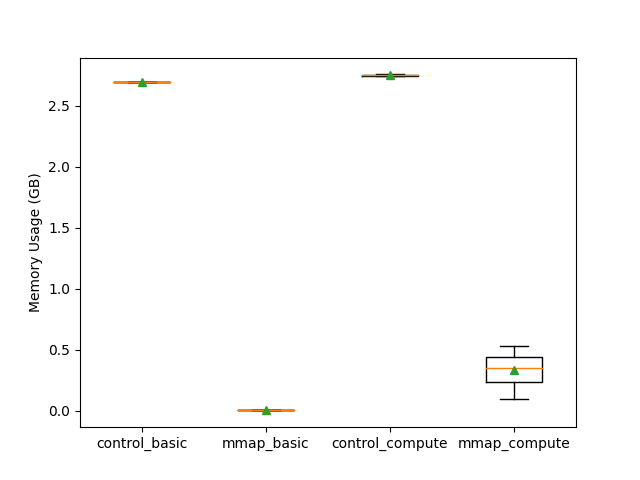
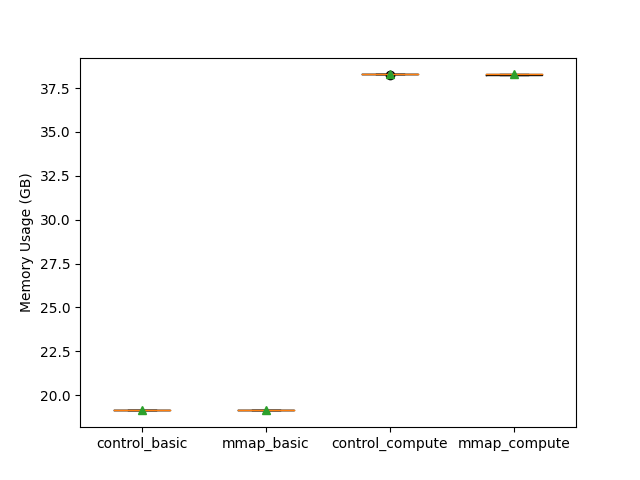
with + without coalesce for 354 residuals + 100 compute cycles

diff --git a/colbert/tests/mmap_test.py b/colbert/tests/mmap_test.py
@@ -11,8 +11,8 @@ import torch
 
 HDD_filepath = '/lfs/1/udingank/msmarco.nbits-2.latest'
 SSD_filepath = '/lfs/0/udingank/msmarco.nbits-2.latest'
-Sources = [HDD_filepath, SSD_filepath]
-Results = ['results-hdd.png', 'results-ssd.png']
+Sources = [SSD_filepath, HDD_filepath]
+Results = ['results-ssd.png', 'results-hdd.png']
 
 #Sources = [TestFile]
 #Results = ['results.png']
@@ -24,10 +24,9 @@ verbose = False
 TEST_CHUNK_SIZE = 100000
 BYTE_SIZE = 1
 
-NUM_COMPUTE_CYCLES = 10
+NUM_COMPUTE_CYCLES = 100
 
-NUM_RES_FILES = 50
-#NUM_RES_FILES = 354
+NUM_RES_FILES = 354
 TensorSizes = [51166240, 51453472, 50933984, 52260032, 54481664, 54507104, 53236320, 53662720, 53944384, 54002784, 53552256, 53667328, 54137248, 54020352, 54441184, 53984192, 53614432, 54481120, 54064096, 54103616, 54155040, 54032160, 53146528, 53839648, 53485664, 54296672, 53755040, 54010784, 54191008, 53782240, 54119968, 53886496, 54510016, 54021184, 53680544, 54164352, 54120192, 54463776, 54394944, 53432672, 54699488, 53804480, 54014720, 53671136, 54194016, 53839008, 54290848, 54043008, 53700608, 53871520, 53178624, 53900512, 54015904, 54518592, 54416992, 54581504, 54298848, 54158368, 54041568, 54378688, 53839232, 54287264, 54091488, 53730464, 53566848, 54063168, 53944000, 54137632, 53897248, 53624928, 54485760, 54331104, 54647968, 54599968, 54546112, 53670656, 53914016, 54217856, 54305568, 54257984, 55005792, 53951104, 54497792, 54992992, 53889312, 53944960, 54473152, 54046304, 54046592, 53580608, 53617120, 53198688, 52915296, 53923072, 53460608, 53548960, 53694048, 52599968, 53268992, 53557248, 53561184, 53765344, 53556928, 54078720, 53031232, 52926656, 53063488, 53754752, 53772832, 53557376, 53072832, 53428576, 53395040, 53273056, 54276864, 54657504, 54099744, 54236448, 53307712, 54159072, 53775136, 53634304, 54093600, 53819488, 53801952, 53867648, 53353184, 54316416, 53560160, 54134944, 54071040, 53986240, 53095328, 54027392, 53961152, 54152192, 54478080, 53665952, 54025856, 54155104, 53544480, 54216288, 53941088, 54007232, 54223584, 54205568, 54400512, 54376128, 53829888, 53570272, 54360640, 54483200, 54144544, 54127840, 54259968, 54754080, 54135424, 54396256, 54146272, 54016480, 53712160, 54274944, 53699328, 54432928, 53947104, 54777440, 54762560, 54062240, 53732000, 54165472, 53983008, 54270240, 53841184, 54049632, 54479584, 54213408, 54072352, 54254080, 54023808, 53854048, 54086080, 53979232, 54049760, 54452224, 54038432, 54250400, 54175200, 53975360, 53975040, 54322240, 54386976, 54497344, 54133696, 54680224, 54133280, 54353952, 53630944, 54746432, 54309952, 54326304, 53676640, 53812832, 54615200, 54287328, 54299040, 54149728, 54295104, 54523104, 54241568, 54858880, 54318496, 54335744, 54264544, 54396960, 53915104, 54295488, 54525600, 53891296, 56159488, 55877920, 56103040, 55800384, 56200736, 56150944, 56126624, 56212480, 55750496, 56334304, 56007040, 55243040, 56307488, 56544448, 56301600, 56649344, 56383232, 55934720, 56568160, 55167168, 55105696, 55868096, 56705792, 56838944, 56551680, 55503584, 55104064, 55028000, 68795968, 68374464, 69128096, 69118464, 69394560, 69144544, 65822272, 55919712, 55927488, 55884064, 56379936, 56346112, 56495008, 56287936, 56274688, 56749184, 55768384, 55717088, 56645696, 56226848, 55737824, 54995168, 55074272, 54782976, 54654656, 54770304, 55382976, 54883168, 54950880, 54718720, 54119136, 54758240, 54616160, 54621824, 54731488, 54192096, 54766080, 48401120, 49150912, 49069664, 49203360, 49278720, 49314432, 49361312, 48923936, 49091264, 54095776, 54359104, 55029088, 54100160, 53178976, 52473120, 52235616, 52540064, 52655776, 52533696, 52408640, 52615104, 52067776, 52357344, 52091520, 52763392, 52244512, 51152224, 51657984, 51895904, 52145440, 51986272, 51948480, 52014336, 51195552, 51687200, 51962720, 53245056, 52912096, 48251168, 49227872, 49226176, 48693184, 49111040, 49186496, 49182912, 47979776, 51783904, 54250272, 54625472, 55362592, 53950944, 52790720, 53113216, 52760768, 52939264, 52933216, 52595296, 52696064, 52492320, 52494240, 52527264, 52841952, 52392256, 51322752, 51423200, 51795936, 51569760, 51588672, 52201760, 51910304, 34766720]
 TEST_FILE_SIZE = sum(TensorSizes)
 
@@ -41,14 +40,14 @@ mmap_compute = []
 control_timing = []
 mmap_timing = []
 
-def read_residuals(mmap, filepath, proc, q):
+def read_residuals(mmap, filepath, proc, coalesce, q):
     mem_buf = []
 
     for i in range(NUM_RES_FILES):
         filename = os.path.join(filepath, "{}.residuals.pt".format(i))
 
-        if (i % 10 == 0):
-            if verbose: print("reading file {}".format(filename))
+        if (i % 100 == 0):
+            print("reading file {}".format(filename))
 
         if mmap:
             storage = torch.ByteStorage.from_file(filename, shared=False, size=TensorSizes[i])
@@ -59,11 +58,18 @@ def read_residuals(mmap, filepath, proc, q):
             temp = torch.load(filename, map_location='cpu')
             mem_buf.append(torch.flatten(temp))
 
+    if coalesce:
+        temp = torch.cat(mem_buf)
+        for x in mem_buf:
+            del x
+        mem_buf = temp
+        gc.collect()
+
     mem = proc.memory_info().rss/B_PER_GB
 
     return mem_buf, mem
 
-def read_into_buffer(mmap, filepath, q):
+def read_into_buffer(mmap, filepath, coalesce, q):
     proc = psutil.Process(os.getpid())
 
     # read time, average copy time, average calculation time, total time
@@ -72,8 +78,10 @@ def read_into_buffer(mmap, filepath, q):
     # read from residual files into mem_buf
     start_time = time.time()
     base_mem = proc.memory_info().rss/B_PER_GB
-    mem_buf, mem = read_residuals(mmap, filepath, proc, q)
+    mem_buf, mem = read_residuals(mmap, filepath, proc, coalesce, q)
     q.put(mem - base_mem)
+
+    RES_SUM = sum(TensorSizes)
 
     fetch_time = time.time()
 
@@ -83,15 +91,20 @@ def read_into_buffer(mmap, filepath, q):
 
     for i in range(NUM_COMPUTE_CYCLES):
         if (i % 10 == 0):
-            print("copying cycle {}".format(i))
+            print("computation cycle {}".format(i))
 
         rand_time_start = time.time()
 
-        res = random.randrange(0, NUM_RES_FILES)
-        res_size = TensorSizes[res]
-        start = random.randrange(res_size - TEST_CHUNK_SIZE)
-        end = min(start + TEST_CHUNK_SIZE, res_size)
-        temp = mem_buf[res][start:end]
+        if not coalesce:
+            res = random.randrange(0, NUM_RES_FILES)
+            res_size = TensorSizes[res]
+            start = random.randrange(res_size - TEST_CHUNK_SIZE)
+            end = start + TEST_CHUNK_SIZE
+            temp = mem_buf[res][start:end] 
+        else:
+            start = random.randrange(0, RES_SUM - TEST_CHUNK_SIZE)
+            end = start + TEST_CHUNK_SIZE
+            temp = mem_buf[start:end]
 
         new_buf = copy.deepcopy(temp)
 
@@ -138,14 +151,14 @@ def read_into_buffer(mmap, filepath, q):
 #   test_iter -     how many test cycles to run
 #
 #   results -       list of length test_iter with memory usage
-def run_test(mmap, test_iter, filepath):
+def run_test(mmap, test_iter, filepath, coalesce):
     for i in range(test_iter):
         print("Starting iteration {}".format(i))
 
         q = Queue()
 
         start_time = time.time()
-        worker_proc = Process(target=read_into_buffer, args=(mmap, filepath, q))
+        worker_proc = Process(target=read_into_buffer, args=(mmap, filepath, coalesce, q))
         worker_proc.start()
 
         worker_proc.join()
@@ -229,19 +242,19 @@ def main(args):
     global mmap_timing
 
     target_dir = args.target_dir
-
     test_iter = args.test_iter
+    coalesce = args.coalesce
 
     ### Start the test
-    print("\nStarting MMap stress test")
+    print("\nStarting MMap stress test with coalescing set to {}, {} residuals, and {} compute cycles".format(coalesce, NUM_RES_FILES, NUM_COMPUTE_CYCLES))
 
     ### Read random parts of the test data file with and without MMap
     for i, filepath in enumerate(Sources):
         print("\nStarting random file read control test from {}".format(filepath))
-        run_test(False, test_iter, filepath)
+        run_test(False, test_iter, filepath, coalesce)
 
         print("\nStarting random file read mmap test from {}".format(filepath))
-        run_test(True, test_iter, filepath)
+        run_test(True, test_iter, filepath, coalesce)
 
         ### Results
         print_results(target_dir, Results[i])
@@ -267,6 +280,10 @@ if __name__ == "__main__":
     parser.add_argument(
         "--target_dir", type=str, required=True, help="Path to directory to save files to"
     )
+
+    parser.add_argument('--coalesce', action='store_true')
+    parser.add_argument('--no-coalesce', dest='coalesce', action='store_false')
+    parser.set_defaults(coalesce=False)
 
     # optional arguments
     parser.add_argument(
